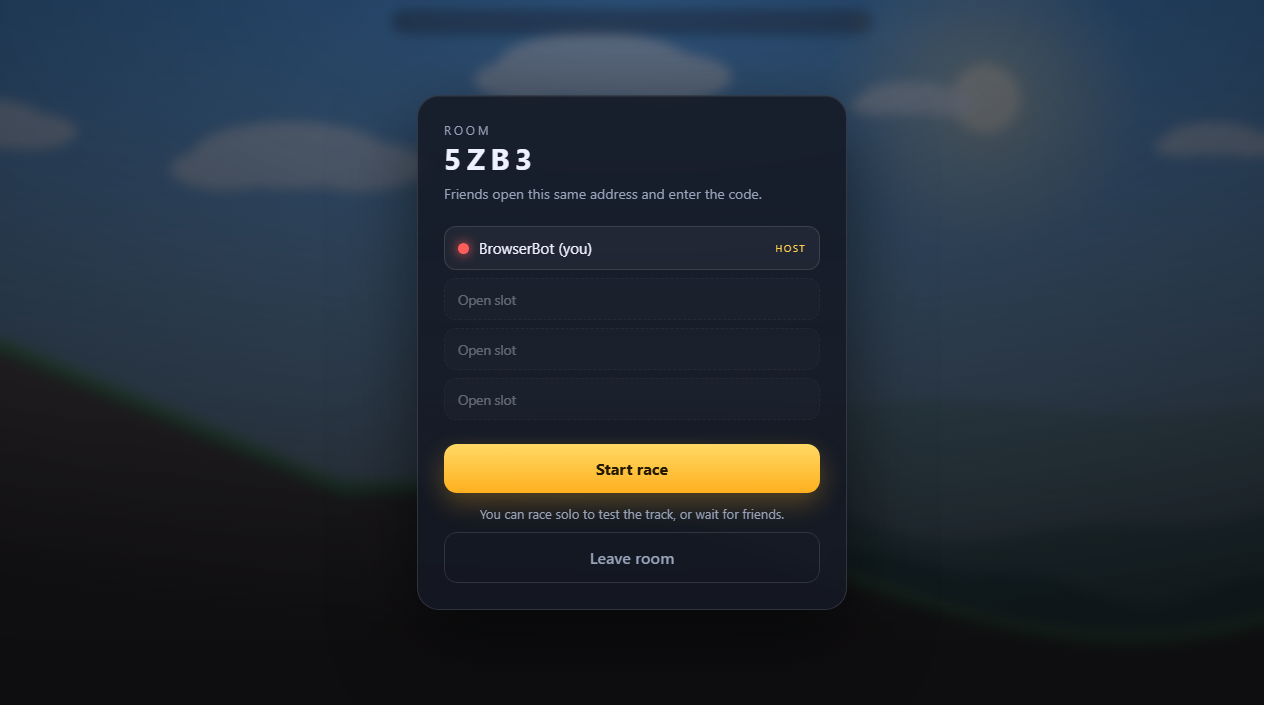
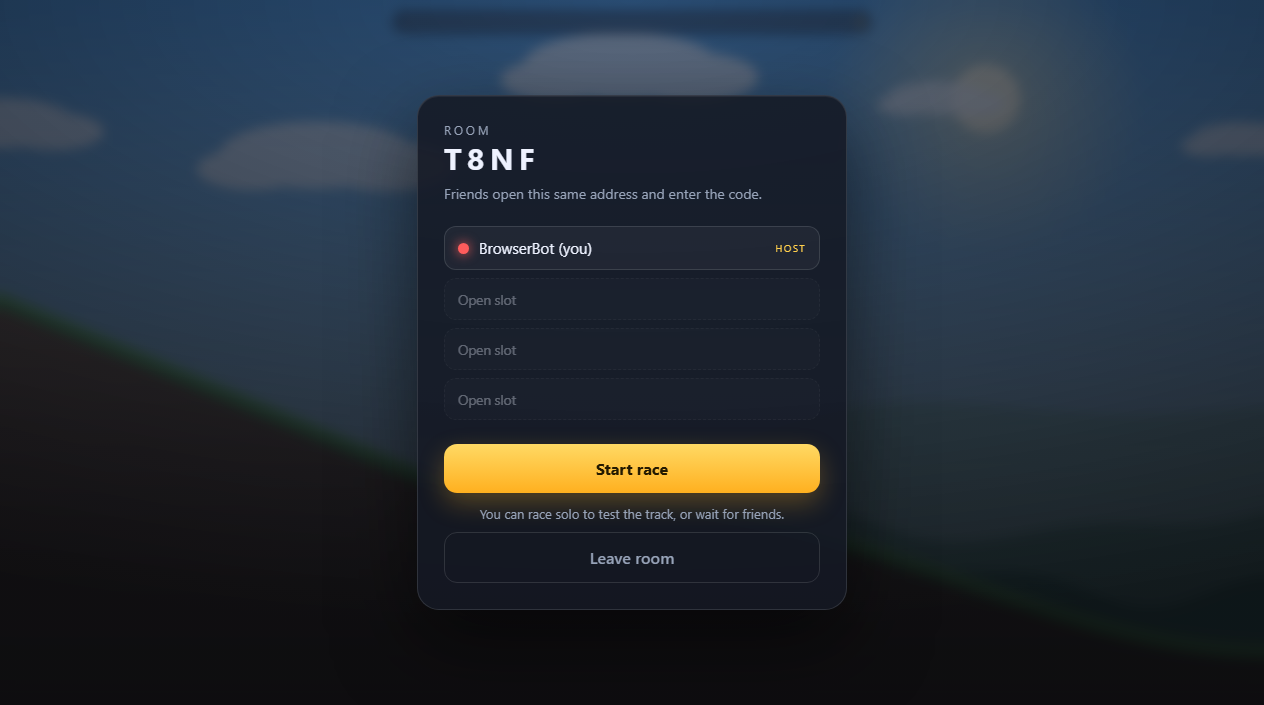
Make browser test work against any URL (URL/CDP_PORT env, 127.0.0.1 devtools)

diff --git a/tools/browser-test.js b/tools/browser-test.js
@@ -1,4 +1,4 @@
-// Headless-browser smoke test: loads the real UI, creates a room, starts a
+// Headless-browser smoke test: loads the real UI, creates a room, starts a
 // solo race, holds the gas key and checks that the car actually moves.
 import { spawn } from 'node:child_process';
 import fs from 'node:fs/promises';
@@ -7,8 +7,8 @@ import path from 'node:path';
 import WebSocket from 'ws';
 
 const CHROME = process.env.CHROME || 'C:\\Program Files\\Google\\Chrome\\Application\\chrome.exe';
-const PORT = 9333;
-const URL = process.env.URL || 'http://localhost:3000';
+const PORT = Number(process.env.CDP_PORT || 9333);
+const BASE_URL = process.env.URL || 'http://localhost:3000';
 const profile = path.join(os.tmpdir(), 'opencode', 'hc-chrome-' + Date.now());
 const shots = path.join(process.cwd(), 'shots');
 
@@ -25,7 +25,7 @@ const chrome = spawn(
     '--window-size=1280,800',
     `--remote-debugging-port=${PORT}`,
     `--user-data-dir=${profile}`,
-    URL,
+    BASE_URL,
   ],
   { stdio: 'ignore' }
 );
@@ -69,8 +69,9 @@ try {
   let target = null;
   for (let i = 0; i < 60; i++) {
     try {
-      const list = await (await fetch(`http://localhost:${PORT}/json/list`)).json();
-      target = list.find((t) => t.type === 'page' && t.url.includes('localhost:3000'));
+      const list = await (await fetch(`http://127.0.0.1:${PORT}/json/list`)).json();
+      const host = new URL(BASE_URL).host;
+      target = list.find((t) => t.type === 'page' && t.url.includes(host));
       if (target) break;
     } catch {}
     await sleep(250);
@@ -199,3 +200,4 @@ try {
   await sleep(300);
   await fs.rm(profile, { recursive: true, force: true }).catch(() => {});
 }
+
